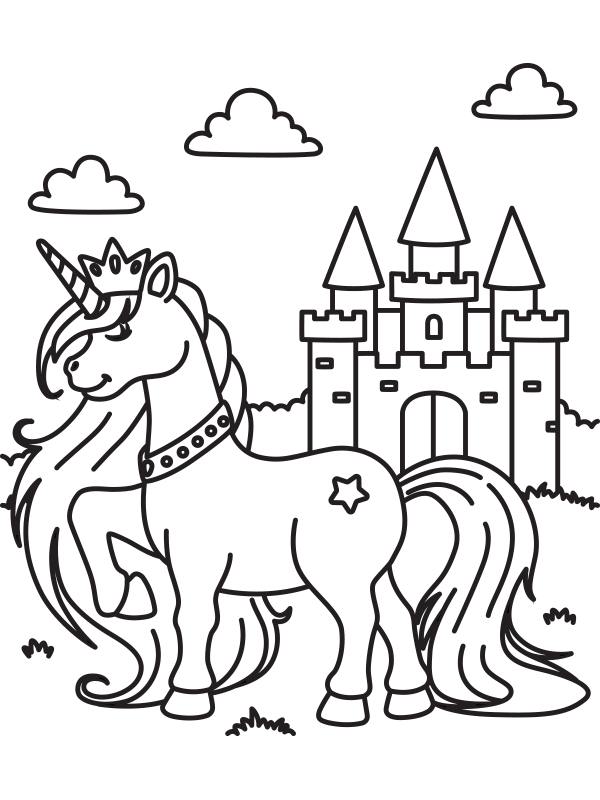
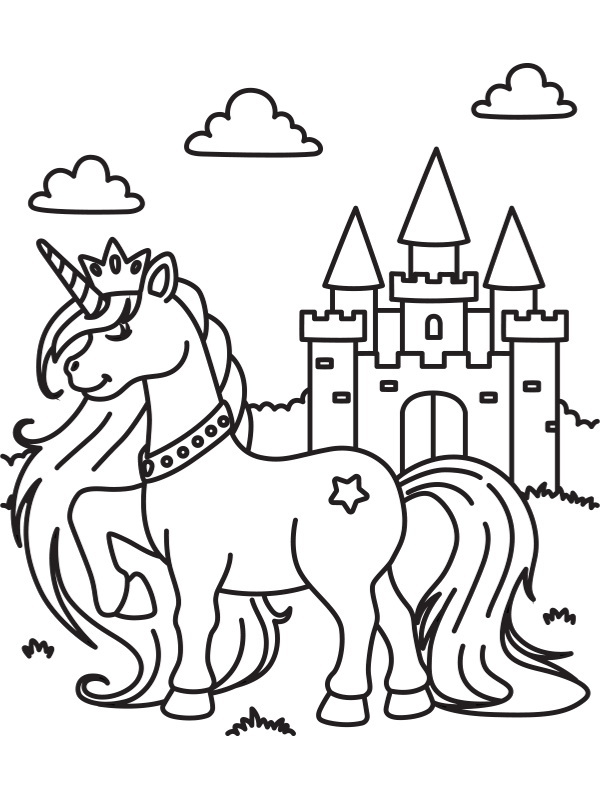
29.4

diff --git a/lib/screens/coloring_screen.dart b/lib/screens/coloring_screen.dart
@@ -191,6 +191,7 @@ class _ColoringScreenState extends State<ColoringScreen>
 
   img.Image? _outlineImage;
   img.Image? _fillLayer;
+  ui.Image? _outlineUiImage;
   ui.Image? _fillLayerUiImage;
   int _fillLayerUiImageGeneration = 0;
   Uint8List? _outlineBoundaryMask;
@@ -374,6 +375,7 @@ class _ColoringScreenState extends State<ColoringScreen>
     _autoSaveTimer?.cancel();
     _fillLayerUiImageGeneration++;
     _fillLayerUiImage?.dispose();
+    _outlineUiImage?.dispose();
     _bannerAd?.dispose();
     _particlesController.dispose();
     super.dispose();
@@ -418,7 +420,10 @@ class _ColoringScreenState extends State<ColoringScreen>
     for (int y = 0; y < outline.height; y++) {
       for (int x = 0; x < outline.width; x++) {
         pixel = outline.getPixel(x, y, pixel);
-        if (pixel.a > 0 && pixel.r < 40 && pixel.g < 40 && pixel.b < 40) {
+        final isVisible = pixel.a > 24;
+        final isDarkOutline =
+            pixel.r < 110 && pixel.g < 110 && pixel.b < 110;
+        if (isVisible && isDarkOutline) {
           mask[index] = 1;
         }
         index++;
@@ -464,6 +469,45 @@ class _ColoringScreenState extends State<ColoringScreen>
     return true;
   }
 
+  Future<void> _buildOutlineUiImage(img.Image outline) async {
+    final rgbaOutline = _asRgbaImage(outline);
+    final bytes = Uint8List.fromList(
+      rgbaOutline.getBytes(order: img.ChannelOrder.rgba),
+    );
+    for (int i = 0; i < bytes.length; i += 4) {
+      final alpha = bytes[i + 3];
+      final maxRgb = math.max(bytes[i], math.max(bytes[i + 1], bytes[i + 2]));
+      final darkness = 255 - maxRgb;
+      final lineAlpha =
+          alpha == 0 ? 0 : (darkness <= 14 ? 0 : ((darkness - 14) * 4).clamp(0, 255));
+      if (lineAlpha == 0) {
+        bytes[i] = 0;
+        bytes[i + 1] = 0;
+        bytes[i + 2] = 0;
+        bytes[i + 3] = 0;
+      } else {
+        bytes[i] = 0;
+        bytes[i + 1] = 0;
+        bytes[i + 2] = 0;
+        bytes[i + 3] = lineAlpha;
+      }
+    }
+
+    final completer = Completer<ui.Image>();
+    ui.decodeImageFromPixels(
+      bytes,
+      rgbaOutline.width,
+      rgbaOutline.height,
+      ui.PixelFormat.rgba8888,
+      completer.complete,
+    );
+
+    final nextImage = await completer.future;
+    final previousImage = _outlineUiImage;
+    _outlineUiImage = nextImage;
+    previousImage?.dispose();
+  }
+
   Future<void> _refreshFillLayerUiImageAndRepaint() async {
     final updated = await _refreshFillLayerUiImage();
     if (!mounted || !updated) return;
@@ -491,6 +535,7 @@ class _ColoringScreenState extends State<ColoringScreen>
       );
       img.fill(_fillLayer!, color: img.ColorRgba8(0, 0, 0, 0));
 
+      await _buildOutlineUiImage(decoded);
       await _refreshFillLayerUiImage();
       await _loadPatternImage();
       await _loadGlitterImage();
@@ -921,7 +966,7 @@ class _ColoringScreenState extends State<ColoringScreen>
     _particlesController.forward(from: 0);
   }
 
-  void _handleCanvasTap(TapDownDetails details, Size canvasSize) {
+  void _handleCanvasTap(TapUpDetails details, Size canvasSize) {
     final local = details.localPosition;
     if (!_isWithinCanvas(local, canvasSize)) return;
 
@@ -948,7 +993,7 @@ class _ColoringScreenState extends State<ColoringScreen>
     _scheduleAutoSave();
   }
 
-  Future<void> _handleFillTap(TapDownDetails details, Size canvasSize) async {
+  Future<void> _handleFillTap(TapUpDetails details, Size canvasSize) async {
     if (_outlineImage == null || _fillLayer == null) return;
     if (_isFilling) return;
 
@@ -995,6 +1040,7 @@ class _ColoringScreenState extends State<ColoringScreen>
 
     final width = outlineImage.width;
     final height = outlineImage.height;
+    final outlineBytes = outlineImage.getBytes(order: img.ChannelOrder.rgba);
 
     if (startX < 0 || startX >= width || startY < 0 || startY >= height) {
       return false;
@@ -1014,6 +1060,8 @@ class _ColoringScreenState extends State<ColoringScreen>
     final selectedRed = _colorByte(selectedColor.r);
     final selectedGreen = _colorByte(selectedColor.g);
     final selectedBlue = _colorByte(selectedColor.b);
+    final startAlpha = fillBytes[startByteIndex + 3];
+    final fillOnlyTransparent = startAlpha == 0;
 
     if (currentMode == PaintMode.fill &&
         fillBytes[startByteIndex + 3] == 255 &&
@@ -1040,8 +1088,23 @@ class _ColoringScreenState extends State<ColoringScreen>
     var processed = 0;
     var changed = false;
 
+     bool _isFillCandidate(int index) {
+      if (boundaryMask[index] != 0) return false;
+      if (!fillOnlyTransparent) return true;
+      return fillBytes[index * 4 + 3] == 0;
+    }
+
+    bool _isHardOutlinePixel(int index) {
+      final byteIndex = index * 4;
+      final alpha = outlineBytes[byteIndex + 3];
+      if (alpha < 40) return false;
+      return outlineBytes[byteIndex] < 70 &&
+          outlineBytes[byteIndex + 1] < 70 &&
+          outlineBytes[byteIndex + 2] < 70;
+    }
+
     void push(int index) {
-      if (visited[index] != 0 || boundaryMask[index] != 0) return;
+      if (visited[index] != 0 || !_isFillCandidate(index)) return;
       visited[index] = 1;
       stack[stackLength++] = index;
     }
@@ -1096,10 +1159,73 @@ class _ColoringScreenState extends State<ColoringScreen>
       if (x < width - 1) push(index + 1);
       if (index >= width) push(index - width);
       if (index < totalPixels - width) push(index + width);
+      if (x > 0 && index >= width) push(index - width - 1);
+      if (x < width - 1 && index >= width) push(index - width + 1);
+      if (x > 0 && index < totalPixels - width) push(index + width - 1);
+      if (x < width - 1 && index < totalPixels - width) {
+        push(index + width + 1);
+      }
 
       processed++;
       if (processed % 12000 == 0) {
         await Future<void>.delayed(Duration.zero);
+      }
+    }
+
+    if (changed) {
+      final edgeExpanded = Uint8List(totalPixels);
+      final frontier = Int32List(totalPixels);
+      final nextFrontier = Int32List(totalPixels);
+      var frontierLength = 0;
+      
+      for (int index = 0; index < totalPixels; index++) {
+        if (visited[index] == 0) continue;
+        edgeExpanded[index] = 1;
+        frontier[frontierLength++] = index;
+      }
+
+      const expansionSteps = 0;
+      for (int step = 0; step < expansionSteps; step++) {
+        var nextLength = 0;
+        for (int i = 0; i < frontierLength; i++) {
+          final index = frontier[i];
+          final y = index ~/ width;
+          final x = index - (y * width);
+          final candidates = <int>[
+            if (x > 0) index - 1,
+            if (x < width - 1) index + 1,
+            if (index >= width) index - width,
+            if (index < totalPixels - width) index + width,
+            if (x > 0 && index >= width) index - width - 1,
+            if (x < width - 1 && index >= width) index - width + 1,
+            if (x > 0 && index < totalPixels - width) index + width - 1,
+            if (x < width - 1 && index < totalPixels - width)
+              index + width + 1,
+          ];
+
+          for (final neighbor in candidates) {
+            if (edgeExpanded[neighbor] != 0) {
+              continue;
+            }
+            if (boundaryMask[neighbor] != 0 && _isHardOutlinePixel(neighbor)) {
+              continue;
+            }
+            final neighborByteIndex = neighbor * 4;
+            if (fillBytes[neighborByteIndex + 3] != 0) continue;
+            fillBytes[neighborByteIndex] = fillBytes[index * 4];
+            fillBytes[neighborByteIndex + 1] = fillBytes[index * 4 + 1];
+            fillBytes[neighborByteIndex + 2] = fillBytes[index * 4 + 2];
+            fillBytes[neighborByteIndex + 3] = fillBytes[index * 4 + 3];
+            edgeExpanded[neighbor] = 1;
+            nextFrontier[nextLength++] = neighbor;
+          }
+        }
+
+        frontierLength = nextLength;
+        for (int i = 0; i < nextLength; i++) {
+          frontier[i] = nextFrontier[i];
+        }
+        if (frontierLength == 0) break;
       }
     }
 
@@ -1615,7 +1741,7 @@ class _ColoringScreenState extends State<ColoringScreen>
 
                           return GestureDetector(
                             behavior: HitTestBehavior.opaque,
-                            onTapDown: isTapMode
+                            onTapUp: isTapMode
                                 ? (d) => _handleCanvasTap(d, canvasSize)
                                 : null,
                             onPanStart: currentMode == PaintMode.brush
@@ -1679,13 +1805,14 @@ class _ColoringScreenState extends State<ColoringScreen>
                                         filterQuality: FilterQuality.none,
                                       ),
                                     ),
-                                  Positioned.fill(
-                                    child: Image.asset(
-                                      widget.item.imagePath,
-                                      fit: BoxFit.fill,
-                                      gaplessPlayback: true,
+                                  if (_outlineUiImage != null)
+                                    Positioned.fill(
+                                      child: RawImage(
+                                        image: _outlineUiImage,
+                                        fit: BoxFit.fill,
+                                        filterQuality: FilterQuality.none,
+                                      ),
                                     ),
-                                  ),
                                   CustomPaint(
                                     size: canvasSize,
                                     painter: DrawingPainter(points: points),
